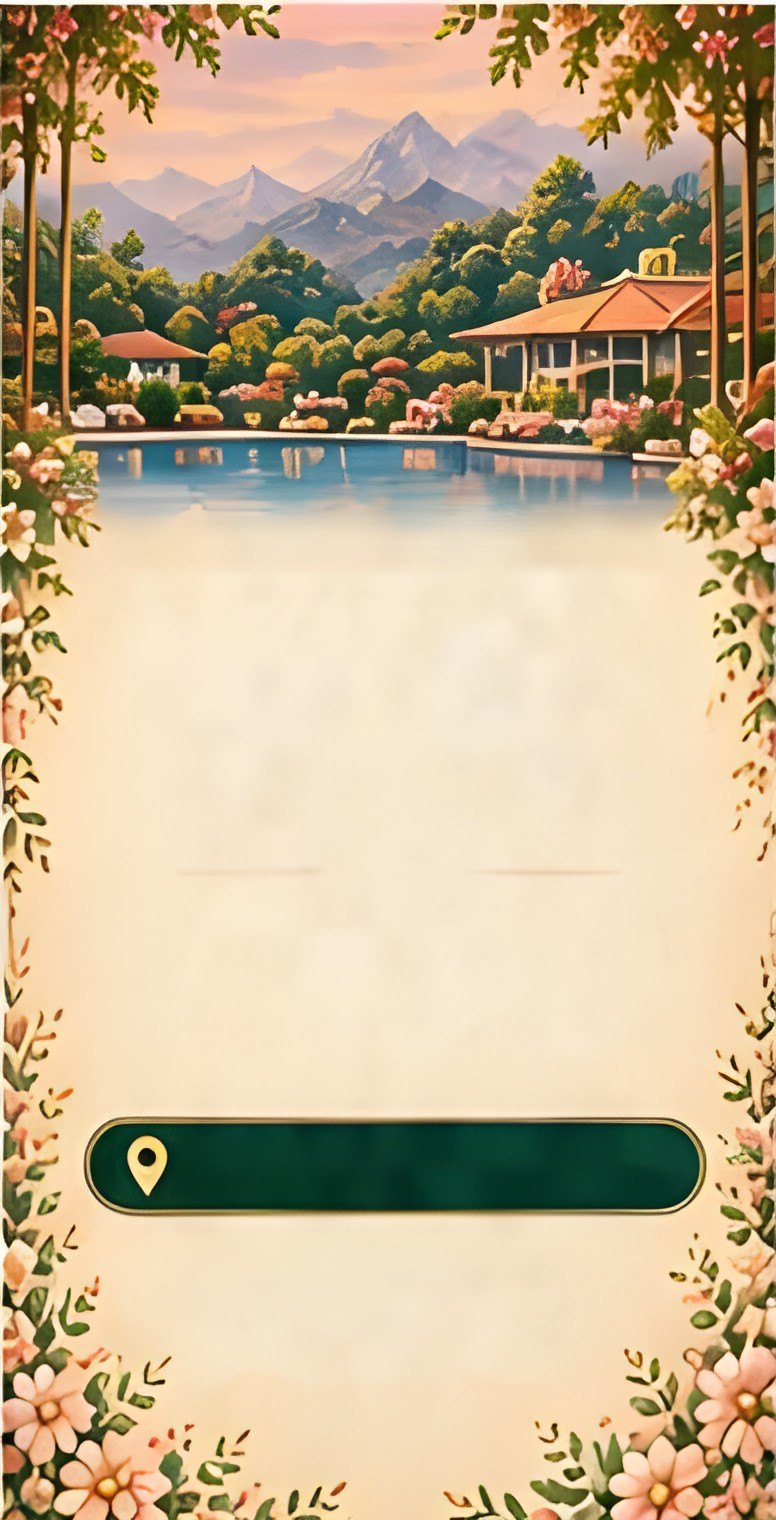
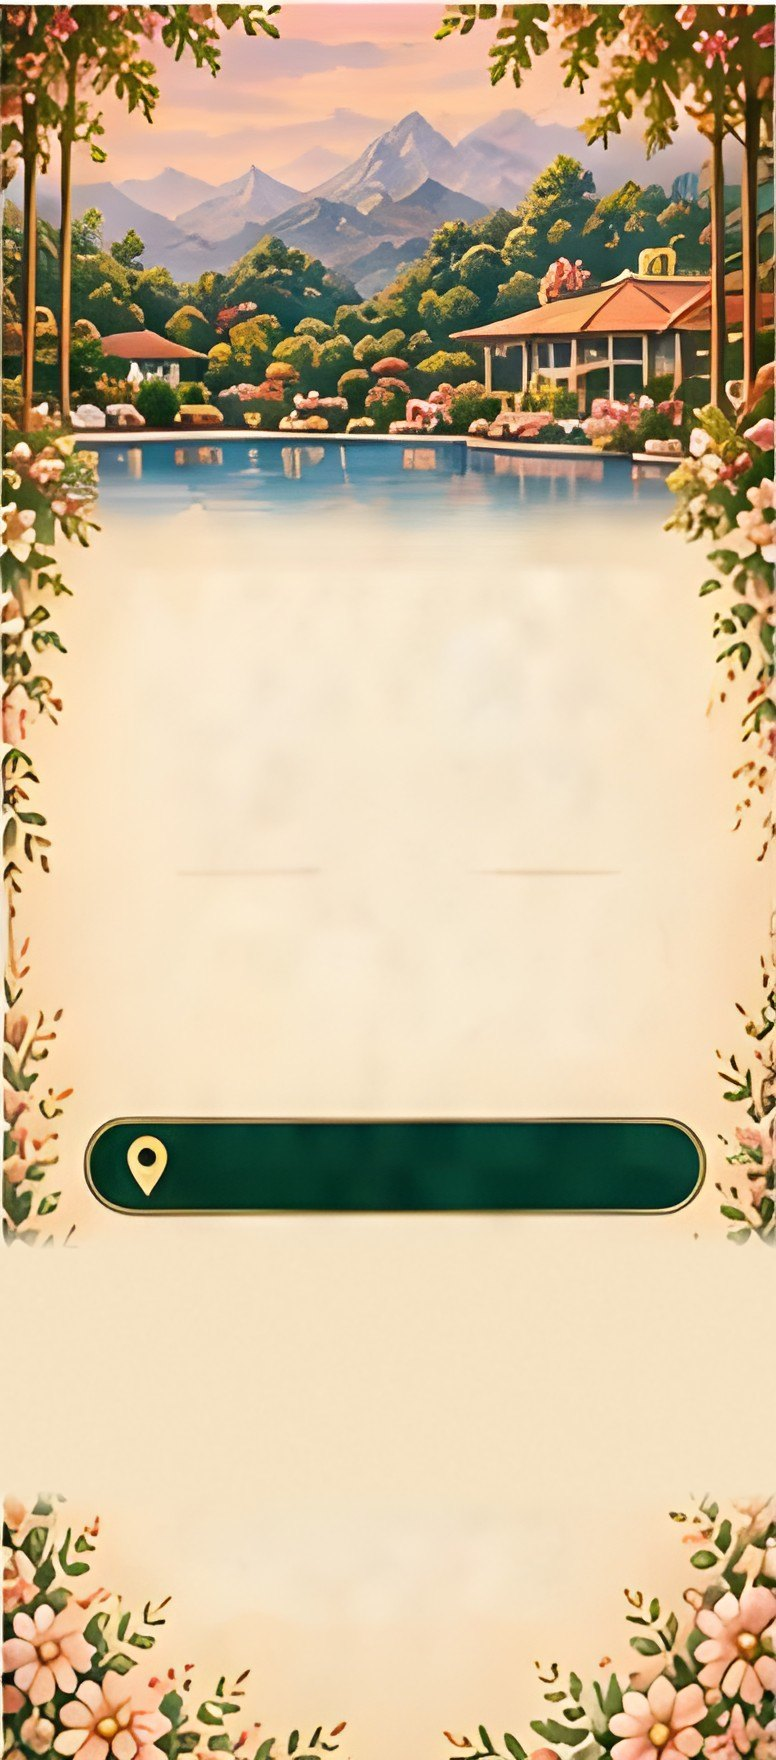
RSVP + note page + brother's note

diff --git a/index.html b/index.html
@@ -28,9 +28,9 @@
   <p class="t caps teal" style="--y:90; --fs:8.6; --lh:1.5">
     Together<br>with our families<br>we cordially invite you to<br>the wedding celebrations of
   </p>
-  <p class="t script sg" style="--y:146; --fs:30">Shreya Arora</p>
+  <p class="t script sg" style="--y:146; --fs:34">Shreya</p>
   <p class="t script sg" style="--y:177; --fs:28">&amp;</p>
-  <p class="t script sg" style="--y:207; --fs:30">Naman Dora</p>
+  <p class="t script sg" style="--y:207; --fs:34">Naman</p>
   <svg class="t orn" style="--y:237; --x:64; --tw:81" viewBox="0 0 120 16"><use href="#orn"/></svg>
   <p class="t caps brown datel" style="--y:256; --fs:10.6">13<sup>th</sup> – 14<sup>th</sup> December 2026</p>
   <p class="t caps teal" style="--y:281; --fs:8.6; --lh:1.5">Two hearts &nbsp;✦&nbsp; one journey<br>forever</p>
@@ -173,34 +173,44 @@
   <button class="f link" type="button" data-page="0" style="--x:28; --y:259; --tw:186; --th:38" aria-label="View the colour theme for each occasion"></button>
 </section>
 
-<!-- ===================== PAGE 11 · RSVP + NOTE (active) ===================== -->
+<!-- ===================== PAGE 11 · RSVP (active) ===================== -->
 <section class="panel" style="--w:169; --h:380; --bg:url(images/p11.jpg)">
   <h2 class="t title cr" style="--y:60; --fs:16.8">Kindly RSVP</h2>
   <p class="t cr" style="--y:87; --fs:11.8; --lh:1.35">We would be delighted<br>to have you with us!</p>
 
   <form id="rsvp-form" autocomplete="on">
-    <label class="f lbl" style="--x:10; --y:104">Full Name(s) *</label>
-    <input class="f box" style="--x:11; --y:118; --tw:145; --th:18" name="name" required placeholder="e.g. Priya &amp; Rahul Sharma">
-    <label class="f lbl" style="--x:10; --y:143">Will you be attending? *</label>
-    <label class="f radio" style="--x:9;   --y:159"><input type="radio" name="attending" value="Yes" required>Yes</label>
-    <label class="f radio" style="--x:62;  --y:159"><input type="radio" name="attending" value="Maybe">Maybe</label>
-    <label class="f radio" style="--x:120; --y:159"><input type="radio" name="attending" value="No">No</label>
-    <label class="f lbl" style="--x:10; --y:178">Number of Guests (incl. you) *</label>
-    <select class="f box" style="--x:11; --y:192; --tw:145; --th:18" name="guests" required>
+    <label class="f lbl" style="--x:10; --y:112">Full Name(s) *</label>
+    <input class="f box" style="--x:11; --y:127; --tw:145; --th:19" name="name" required placeholder="e.g. Priya &amp; Rahul Sharma">
+    <label class="f lbl" style="--x:10; --y:160">Will you be attending? *</label>
+    <label class="f radio" style="--x:14; --y:178"><input type="radio" name="attending" value="Yes" required>Yes, with joy!</label>
+    <label class="f radio" style="--x:92; --y:178"><input type="radio" name="attending" value="No">Sadly, no</label>
+    <label class="f lbl" style="--x:10; --y:210">Number of Guests (incl. you) *</label>
+    <select class="f box" style="--x:11; --y:225; --tw:145; --th:19" name="guests" required>
       <option value="">Select number</option>
       <option>1</option><option>2</option><option>3</option><option>4</option>
       <option>5</option><option>6</option><option>7</option><option>8</option>
     </select>
-    <label class="f lbl" style="--x:10; --y:217">A Little Note for Us <span class="opt">(optional)</span></label>
-    <textarea class="f box" style="--x:11; --y:231; --tw:145; --th:56" name="note" placeholder="A wish, a memory or a message for the couple…"></textarea>
     <button class="f hit" type="submit" style="--x:31; --y:300; --tw:103; --th:22"><span>Submit RSVP</span></button>
-    <p class="t form-msg cr" style="--y:327; --fs:9.5"></p>
+    <p class="t form-msg cr" style="--y:270; --fs:9.5"></p>
   </form>
   <p class="t script gd" style="--y:345; --fs:19">Thank you!</p>
 </section>
 
-<!-- ===================== PAGE 12 · VENUE ===================== -->
-<section class="panel" style="--w:194; --h:380; --bg:url(images/p14.jpg)">
+<!-- ===================== PAGE 12 · A LITTLE NOTE (active) ===================== -->
+<section class="panel" style="--w:181; --h:380; --bg:url(images/p13.jpg)">
+  <h2 class="t title cr" style="--y:97; --fs:16.8; --lh:1.4">A Little Note<br>for Us</h2>
+  <p class="t cr" style="--y:135; --fs:11.2; --lh:1.4">Leave us a note, a wish,<br>or a message for the couple.</p>
+  <form id="note-form">
+    <input class="f box note-name" style="--x:12; --y:159; --tw:160; --th:17" name="from" required placeholder="Your name(s) – e.g. Priya &amp; Rahul">
+    <textarea class="f box note-text" style="--x:12; --y:176; --tw:160; --th:48" name="note" required placeholder="Write your message here..."></textarea>
+    <button class="f hit" type="submit" style="--x:36; --y:234; --tw:111; --th:24"><span>Submit Note</span></button>
+    <p class="t form-msg cr" style="--y:268; --fs:9.5"></p>
+  </form>
+  <p class="t script gd tilt" style="--y:301; --fs:15.5">Your wishes<br>mean the world to us!</p>
+</section>
+
+<!-- ===================== PAGE 13 · VENUE ===================== -->
+<section class="panel" style="--w:194; --h:440; --bg:url(images/p14.jpg)">
   <p class="t caps teal" style="--y:142; --fs:8.2">All celebrations to be held at</p>
   <p class="t script sg" style="--y:174; --fs:20">Namaste Corbett<br>Resort &amp; Spa</p>
   <p class="t teal" style="--y:206; --fs:11.8">Jim Corbett &nbsp;•&nbsp; Uttarakhand</p>
@@ -208,7 +218,11 @@
   <p class="t caps cr" style="--y:291; --x:46; --tw:126; --fs:7.4">Click to view the location</p>
   <!-- Clickable button → Google Maps. Change the link in config.js (MAPS_LINK) -->
   <a class="f link" id="maps-link" href="#" target="_blank" rel="noopener" style="--x:22; --y:279; --tw:152; --th:24" aria-label="Open location in Google Maps"></a>
-  <p class="t script sg" style="--y:334; --fs:15; --lh:1.25">With love<br>Shreya &amp; Naman</p>
+  <!-- Closing note (each line is centred; sizes scale with the screen) -->
+  <p class="t caps teal" style="--y:319; --fs:7.1">A little note from the bride's brother</p>
+  <p class="t it brown wrap" style="--y:340; --x:16; --tw:162; --fs:12; --lh:1.25">“She's getting married,<br>but I'm still the favourite!”</p>
+  <p class="t teal wrap" style="--y:367; --x:20; --tw:154; --fs:10.2; --lh:1.25">Don't forget to join us<br>for the celebrations!</p>
+  <p class="t script sg" style="--y:392; --fs:17">Rishabh Arora</p>
 </section>
 
 </main>

diff --git a/script.js b/script.js
@@ -184,32 +184,41 @@ const music = (function () {
   }
   const gf = googleForm();
 
-  const rsvp = document.getElementById("rsvp-form");
-  const msg = rsvp.querySelector(".form-msg");
-  const btn = rsvp.querySelector("button");
-
-  rsvp.addEventListener("submit", async e => {
-    e.preventDefault();
-    const f = rsvp.elements;
-    const data = { NAME: f.name.value.trim(), ATTENDING: f.attending.value, GUESTS: f.guests.value, NOTE: f.note.value.trim() };
+  async function send(form, data, okText) {
+    const msg = form.querySelector(".form-msg");
+    const btn = form.querySelector("button");
     let url, body;
     if (gf) {
       body = new URLSearchParams();
-      for (const k in data) if (gf.map[k]) body.append(gf.map[k], data[k]);
+      for (const k in data) if (gf.map[k] && data[k]) body.append(gf.map[k], data[k]);
       url = gf.action;
     } else if (SHEET_URL) {
-      body = new URLSearchParams({ form: "RSVP", name: data.NAME, attending: data.ATTENDING, guests: data.GUESTS, note: data.NOTE });
+      body = new URLSearchParams({ form: data.NOTE && !data.ATTENDING ? "Note" : "RSVP", name: data.NAME, attending: data.ATTENDING || "", guests: data.GUESTS || "", note: data.NOTE || "" });
       url = SHEET_URL;
     } else { msg.textContent = "Not connected yet (add GOOGLE_FORM_LINK in config.js)."; return; }
-
     btn.disabled = true; msg.textContent = "Sending…";
     try {
       await fetch(url, { method: "POST", mode: "no-cors", body });
-      msg.textContent = data.ATTENDING === "No" ? "Thank you – you will be missed! ♥" : "Thank you! Your RSVP has been received ♥";
-      rsvp.reset();
+      msg.textContent = okText;
+      form.reset();
     } catch (err) {
       msg.textContent = "Something went wrong — please try again.";
     }
     btn.disabled = false;
+  }
+
+  const rsvp = document.getElementById("rsvp-form");
+  rsvp.addEventListener("submit", e => {
+    e.preventDefault();
+    const f = rsvp.elements;
+    send(rsvp, { NAME: f.name.value.trim(), ATTENDING: f.attending.value, GUESTS: f.guests.value },
+      f.attending.value === "No" ? "Thank you – you will be missed! ♥" : "Thank you! Your RSVP has been received ♥");
+  });
+
+  const note = document.getElementById("note-form");
+  note.addEventListener("submit", e => {
+    e.preventDefault();
+    const f = note.elements;
+    send(note, { NAME: f.from.value.trim(), NOTE: f.note.value.trim() }, "Your note has been sent with love ♥");
   });
 })();

diff --git a/style.css b/style.css
@@ -280,3 +280,5 @@ button.link { border: 0; background: transparent; cursor: pointer; padding: 0; }
 .lb-bar a { color: #f2d394; text-transform: uppercase; font-size: 12px; border: 1px solid rgba(233,200,125,.7); padding: 5px 12px; border-radius: 999px; text-decoration: none; }
 
 .opt { font-weight: 500; font-style: italic; opacity: .8; }
+
+.t.wrap { white-space: normal; }

diff --git a/README.md b/README.md
@@ -1,8 +1,8 @@
 # Shreya & Naman – Wedding Invitation Website
 
-A one-page scrolling invitation (12 pages) that opens with a "Tap to open" wax seal,
+A one-page scrolling invitation (13 pages) that opens with a "Tap to open" wax seal,
 plays music, and reveals each page as you scroll. Clickable: the seal, the Wardrobe Planner cards (each opens
-that event's look), the RSVP form (with a note for the couple) and the location button (Google Maps).
+that event's look), the RSVP form, the "Little Note for Us" form and the location button (Google Maps).
 
 ## What's in the folder
 
